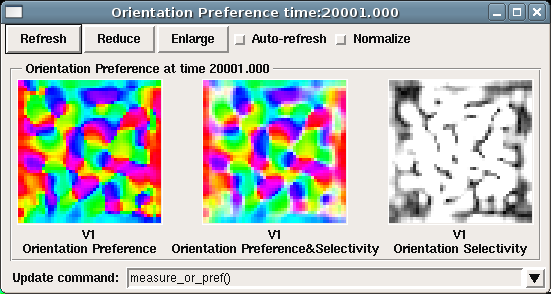
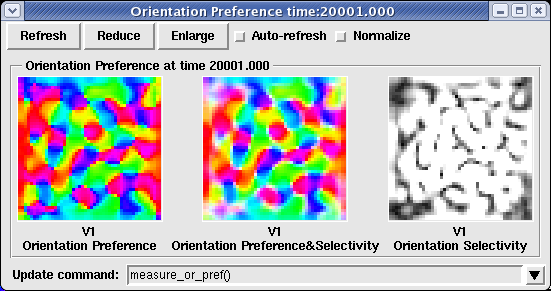
Updated tutorial with screenshots from the new saved network (v.1.3), and using a line as the demonstration pattern.

diff --git a/doc/Tutorial/text.php b/doc/Tutorial/text.php
@@ -58,15 +58,15 @@ synaptic weights.
 
 <li> To see how this network responds to a simple visual image,
 select <span class='t_item'>Test pattern</span> from the <span class='t_item'>Simulation</span> menu to get the
-<span class='w_title'>Test Pattern</span> window, select a <span class='t_item'>Gaussian</span> <span class='t_item'>Input type</span>, then hit <span class='b_press'>Present</span>:
+<span class='w_title'>Test Pattern</span> window, select a <span class='t_item'>Line</span> <span class='t_item'>Input type</span>, then hit <span class='b_press'>Present</span>:
 
 <p class='center'>
 <img src="images/test_pattern.png" alt="Test Pattern window"
-align="middle" width="415" height="606">
+align="middle" width="415" height="603">
 </p>
 
 <p>
-This will present an an oriented 2D Gaussian.  
+This will present a horizontal line.  
 </p>
 
 <p></p>
@@ -75,7 +75,7 @@ This will present an an oriented 2D Gaussian.
 <li>To see the result, select <span class='t_item'>Activity</span> from
 the <span class='t_item'>Plots</span> menu on the <span class='w_title'>Topographica Console</span> to get:
 <p class='center'>
-<img src="images/activity_gaussian.png" alt="Response to Gaussian" align="middle" width="420" height="320">
+<img src="images/activity_line.png" alt="Response to a line" align="middle" width="420" height="317">
 </p>
 
 
@@ -88,9 +88,8 @@ and <span class='t_item'>V1</span> on the right.
 a pixel whose shade of grey codes the response level, increasing from black to
 white.  These patterns are what was specified in
 the <span class='w_title'>Test Pattern</span> window. At this stage, in V1, the response
-level is also coded in shades of grey. Note that the response is often patchy, as
+level is also coded in shades of grey. Note that the response is patchy, as
 explained below.
-<!-- Should say 'patchy', but this one is not -->
 
 </p>
 
@@ -108,7 +107,7 @@ the neuron in the center of the cortex (by default):
 
 <p class="center">
 <img src="images/unit_weights_0_0.png" alt="Weights of one
-neuron" align="middle" width="504" height="305">
+neuron" align="middle" width="504" height="302">
 </p>
 
 <p>
@@ -117,7 +116,7 @@ retina), followed by the  lateral excitatory and lateral inhibitory
 weights to that neuron from nearby neurons in V1. The afferent
 weights represent the retinal pattern that would most excite the neuron.
 For this particular neuron, the optimal retinal stimulus would be a
-bright line oriented at about 45 degrees (10 o'clock) in about the
+bright line oriented at about 20 degrees (2 o'clock) in about the
 center of the retina.
 </p><p></p></li><li>If all neurons had the same weight pattern, the response
 would not be patchy -- it would just be a blurred version of the
@@ -126,7 +125,7 @@ inputs). To see what the other neurons look like, select <span class='t_item'>Pr
 
 <p class="center">
 <img src="images/projection.png" alt="Afferent weights of many
-neurons" align="middle" width="548" height="468">
+neurons" align="middle" width="548" height="465">
 </p>
 
 This plot shows the afferent weights for every seventh neuron in each
@@ -146,8 +145,8 @@ neuron.  A similar procedure can be performed in the model by selecting
 <span class='t_item'>Orientation Preference</span> from the <span class='t_item'>Plots</span> menu:
 
 <p class="center">
-<img src="images/or_map.png" alt="Orientation map" width="551" height="294">&nbsp;&nbsp;&nbsp;
-<img src="images/or_key_vert_transparent_topo.png" alt="Orientation key" height="294" width="24">
+<img src="images/or_map.png" alt="Orientation map" width="551" height="291">&nbsp;&nbsp;&nbsp;
+<img src="images/or_key_vert_transparent_topo.png" alt="Orientation key" height="291" width="24">
 </p><br>
 
 <P>
@@ -185,8 +184,8 @@ on the <span class='w_title'>Test pattern</span> window and then looking
 at the refreshed image in the <span class='w_title'>Activity</span> window:
 
 <p class="center">
-<img src="images/activity_gaussian_or.png" alt="Sample Gaussian" width="420" height="320">
-<img src="images/or_key_vert_transparent_topo.png" alt="Orientation key" height="294" width="24">
+<img src="images/activity_line_or.png" alt="Color-coded response to a line" width="420" height="317">
+<img src="images/or_key_vert_transparent_topo.png" alt="Orientation key" height="317" width="24">
 </p><br>
 
 
@@ -226,7 +225,7 @@ the neurons around the center of the plot are primarily (**magenta (purple)) .)
 
 <li> Now that you have a feel for the various plots, you can try
 different input patterns, seeing how the cortex responds to each one.
-Just select an <span class='t_item'>Input type</span>, e.g.  <span class='t_item'>Line</span>,
+Just select an <span class='t_item'>Input type</span>, e.g.  <span class='t_item'>Gaussian</span>,
 <span class='t_item'>Disk</span>, or <span
 class='t_item'>SineGrating</span>, and then hit
 <span class='b_press'>Present</span>.
